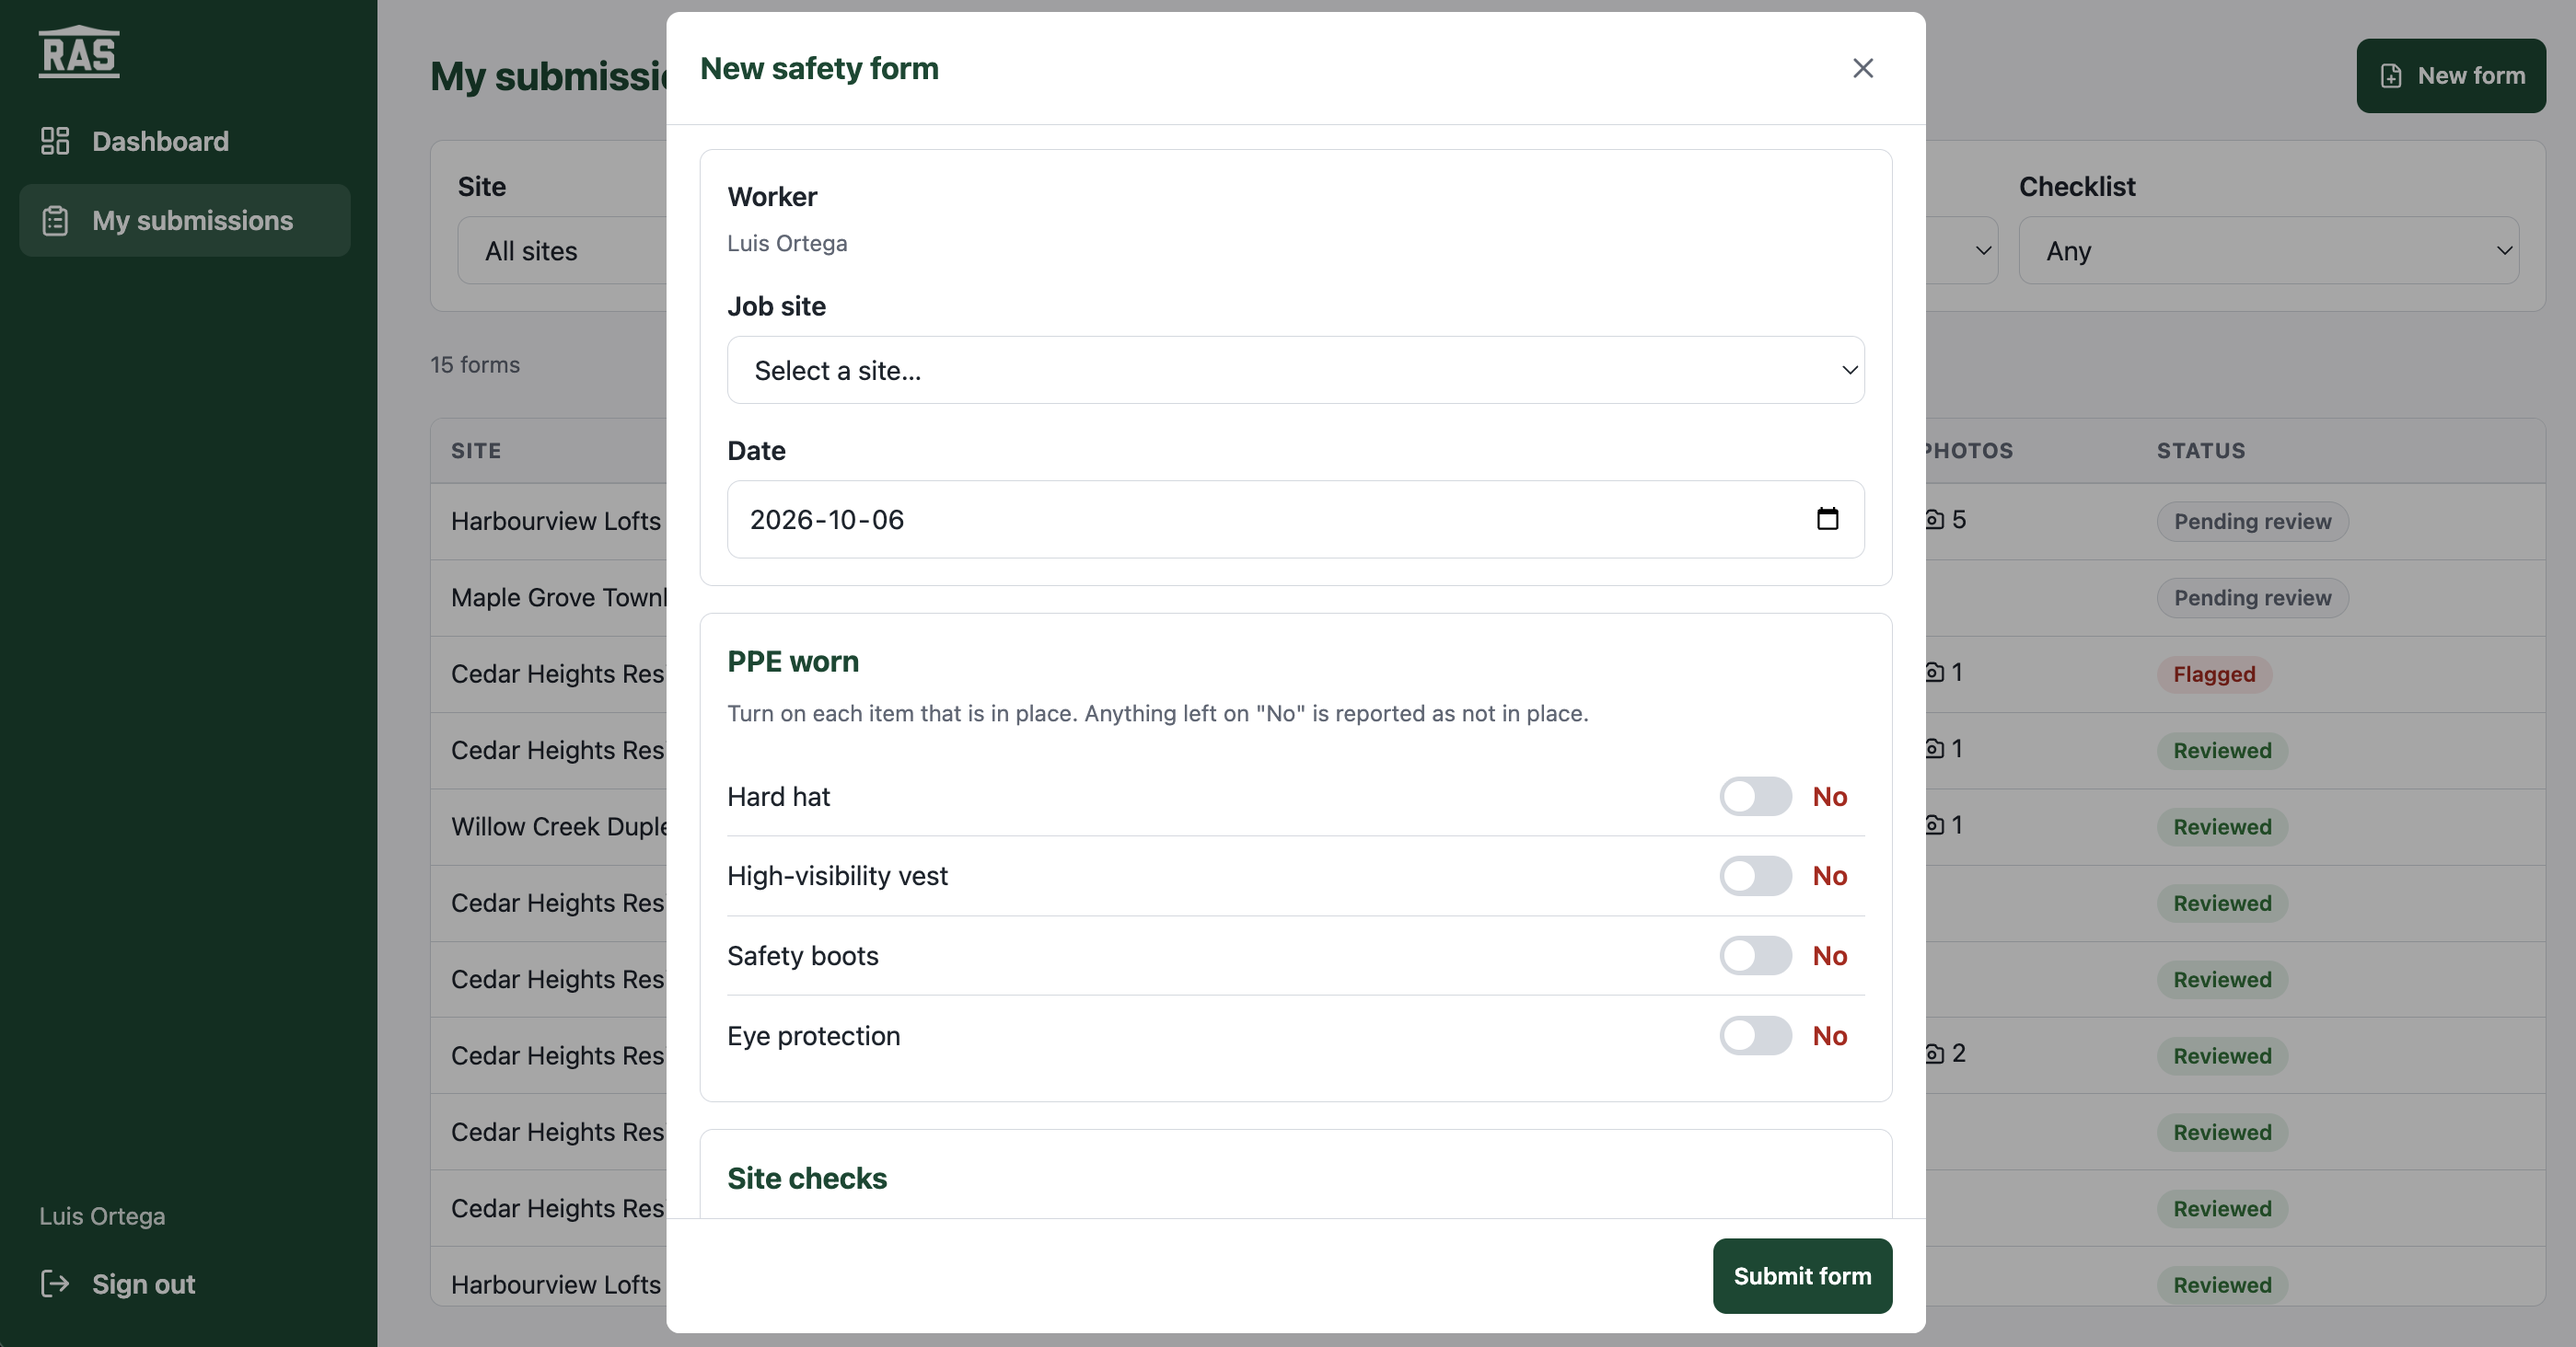
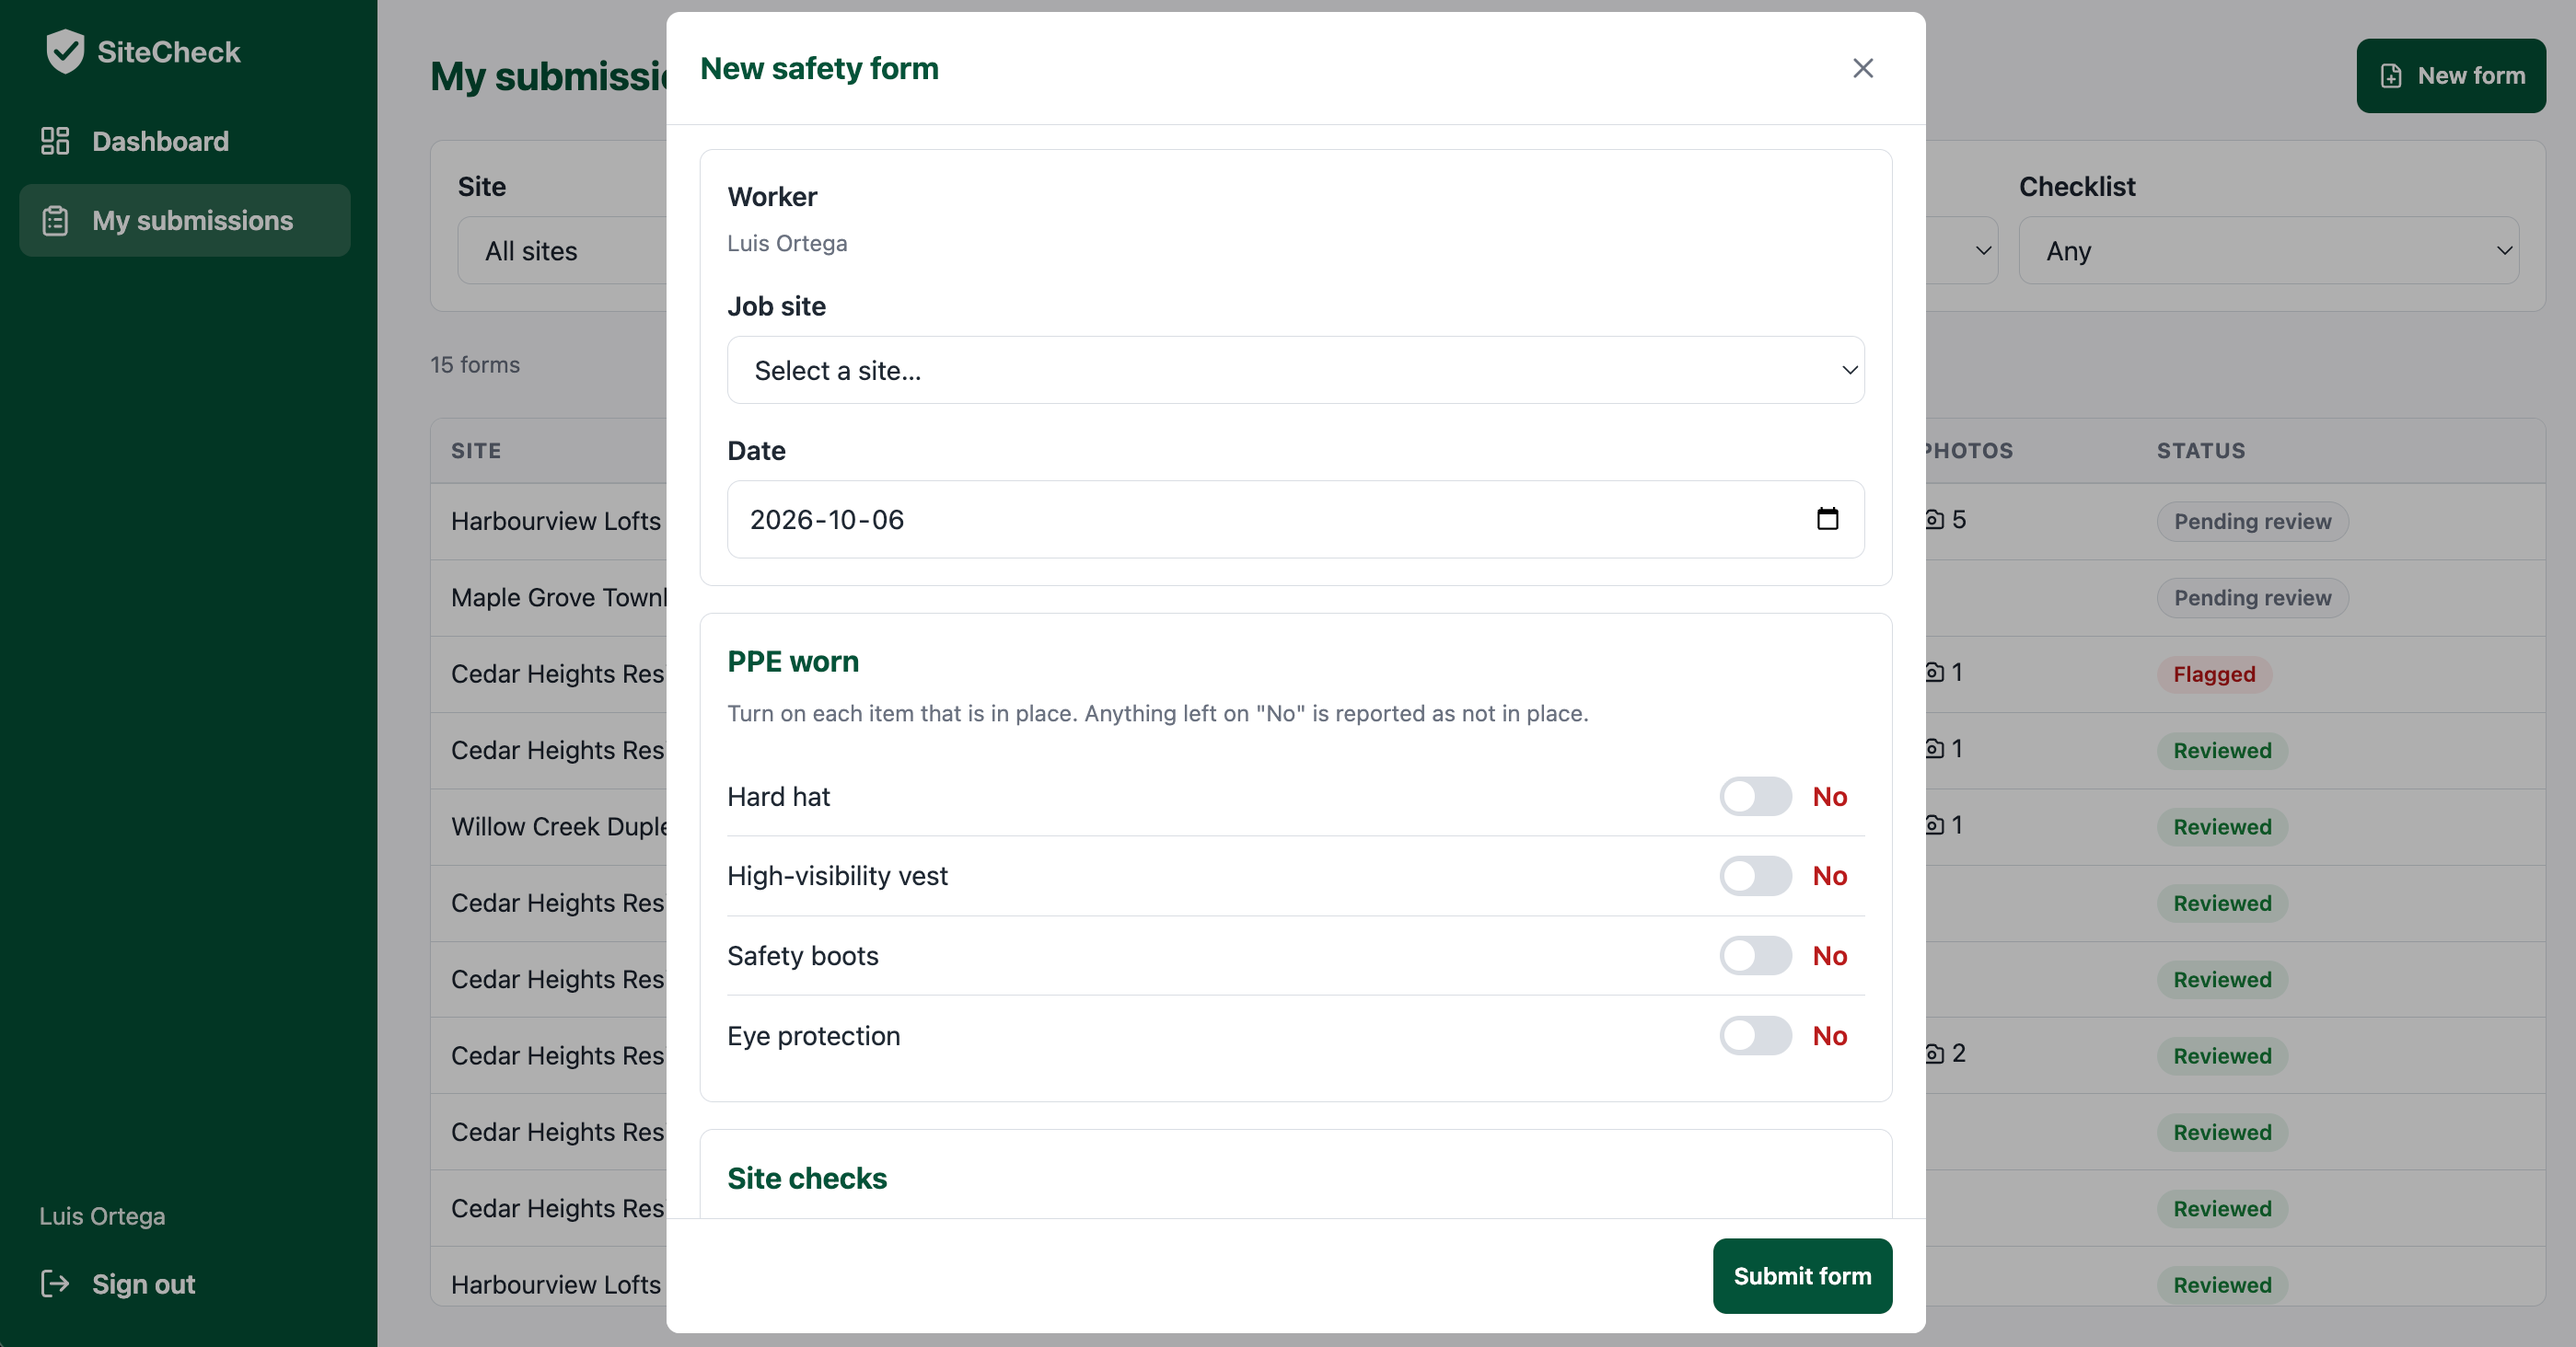
chore: UI adjustments

diff --git a/index.html b/index.html
@@ -2,12 +2,12 @@
 <html lang="en">
   <head>
     <meta charset="UTF-8" />
-    <link rel="icon" type="image/webp" href="/ras-favicon.webp" />
+    <link rel="icon" type="image/svg+xml" href="/favicon.svg" />
     <meta name="viewport" content="width=device-width, initial-scale=1.0" />
-    <meta name="description" content="RAS daily site safety forms: framers submit checklists and photos, supervisors review them." />
-    <!-- Colours the browser bar on phones in the RAS green. -->
+    <meta name="description" content="SiteCheck, daily site safety forms: framers submit checklists and photos, supervisors review them." />
+    <!-- Colours the browser bar on phones in the brand green. -->
     <meta name="theme-color" content="#035339" />
-    <title>RAS Site Safety Forms</title>
+    <title>SiteCheck · Site Safety Forms</title>
   </head>
   <body>
     <div id="root"></div>

diff --git a/src/components/Logo/Logo.tsx b/src/components/Logo/Logo.tsx
@@ -1,12 +1,12 @@
 import { useState } from 'react'
 import { Image, TextLogo } from './Logo.styles'
 
-// Shows /public/ras-logo.webp; if the file is missing or fails to load,
-// falls back to the "RAS" text so the header never shows a broken image.
+// Shows /public/logo-white.svg (white, made for the green side menu); if the file is
+// missing or fails to load, falls back to the app name so the header never shows a broken image.
 export function Logo() {
   const [imageFailed, setImageFailed] = useState(false)
 
-  if (imageFailed) return <TextLogo>RAS</TextLogo>
+  if (imageFailed) return <TextLogo>SiteCheck</TextLogo>
 
-  return <Image src="/ras-logo.webp" alt="RAS" onError={() => setImageFailed(true)} />
+  return <Image src="/logo-white.svg" alt="SiteCheck" onError={() => setImageFailed(true)} />
 }

diff --git a/src/styles/theme.ts b/src/styles/theme.ts
@@ -1,9 +1,9 @@
 // Design tokens shared by every styled component (via ThemeProvider).
-// Brand green and logo from the RAS website. The amber accent is our choice (safety
-// colour for highlights and focus rings), not an official RAS colour.
+// Brand green for the side menu, buttons and titles; amber accent as the safety
+// colour for highlights and focus rings.
 export const theme = {
   colors: {
-    brand: "#035339", // RAS green: side menu, primary buttons, titles
+    brand: "#035339", // brand green: side menu, primary buttons, titles
     brandText: "#ffffff",
     brandTint: "rgba(255, 255, 255, 0.12)", // highlight on top of brand (active menu item)
     accent: "#f59e0b", // safety amber: highlights, focus rings

diff --git a/src/components/NotFoundPage.tsx b/src/components/NotFoundPage.tsx
@@ -8,7 +8,7 @@ export function NotFoundPage() {
   return (
     <FullPageMessage>
       {/* The full green logo: the menu's logo is white, made for the green side menu. */}
-      <img src="/ras-full-logo.webp" alt="RAS Framing & Formwork" width={140} />
+      <img src="/logo.svg" alt="SiteCheck" width={140} />
       <PageTitle as="h1">Page not found</PageTitle>
       <p>This page doesn't exist, or your account can't open it.</p>
       {/* "/" sends each user to their own home page (see App.tsx). */}

diff --git a/src/features/auth/LoginPage/LoginPage.tsx b/src/features/auth/LoginPage/LoginPage.tsx
@@ -58,7 +58,7 @@ export function LoginPage() {
     <Page>
       {/* Left (top on phones): what this app is. */}
       <BrandPanel>
-        <FullLogo src="/ras-full-logo.webp" alt="RAS Framing & Formwork" />
+        <FullLogo src="/logo.svg" alt="SiteCheck" />
         <Pitch>
           <Headline>Daily site safety, in one place.</Headline>
           <Features>

diff --git a/README.md b/README.md
@@ -1,11 +1,11 @@
-# RAS Site Safety Forms
+# SiteCheck: Site Safety Forms
 
-A web app that emulates an internal RAS (Ron Anderson & Sons) tool. Before starting work, framers fill in a
+A web app for a framing and construction crew. Before starting work, framers fill in a
 daily safety form for their job site from their phone, with a checklist, notes and photos. Admins see who has
 submitted, on which site and when, review each form and flag anything that needs follow-up.
 
 - **Live app:** https://ras-psi.vercel.app
-- **ERD:** [doc/ras-erd.png](doc/ras-erd.png) (source: [doc/erd.dbml](doc/erd.dbml), made with dbdiagram.io)
+- **ERD:** [doc/erd.png](doc/erd.png) (source: [doc/erd.dbml](doc/erd.dbml), made with dbdiagram.io)
 
 ## Screenshots
 
@@ -95,7 +95,7 @@ submitted, on which site and when, review each form and flag anything that needs
 | -------------- | ---------------------------------------------------------------------------------------------- |
 | Frontend       | React 19 + TypeScript, Vite                                                                    |
 | Routing        | React Router (library mode)                                                                    |
-| Styling        | styled-components, theme tokens in `src/styles/theme.ts` (RAS green `#035339`)                 |
+| Styling        | styled-components, theme tokens in `src/styles/theme.ts` (brand green `#035339`)               |
 | Charts / icons | Recharts, lucide-react                                                                         |
 | Backend        | Supabase: Postgres, Auth (email + password), Storage (private photo bucket), one Edge Function |
 | Security       | Postgres Row Level Security (RLS) and column-level grants                                      |
@@ -134,7 +134,7 @@ sees. This is UX only, and the database stays the source of truth.
 
 ## Data model
 
-See the [ERD](doc/ras-erd.png). In short:
+See the [ERD](doc/erd.png). In short:
 
 | Table               | Purpose                                                                                                                                                             |
 | ------------------- | ------------------------------------------------------------------------------------------------------------------------------------------------------------------- |
@@ -210,8 +210,8 @@ refresh, and it adds the security headers.
 
 ## Assumptions
 
-- **Branding:** the RAS green and logos come from the RAS website and Instagram. The amber accent, used for
-  highlights and focus rings, is our own choice, not an official RAS colour.
+- **Branding:** SiteCheck is a fictional brand made for this portfolio project. The green is used for the menu,
+  buttons and titles; the amber accent, a safety colour, for highlights and focus rings.
 - **One form per worker, per site, per day.** A framer who works on two sites submits two forms.
 - **Dates:**
   - "Today" is **Vancouver time** (America/Vancouver), in the app and in the database rules. A form can't be
